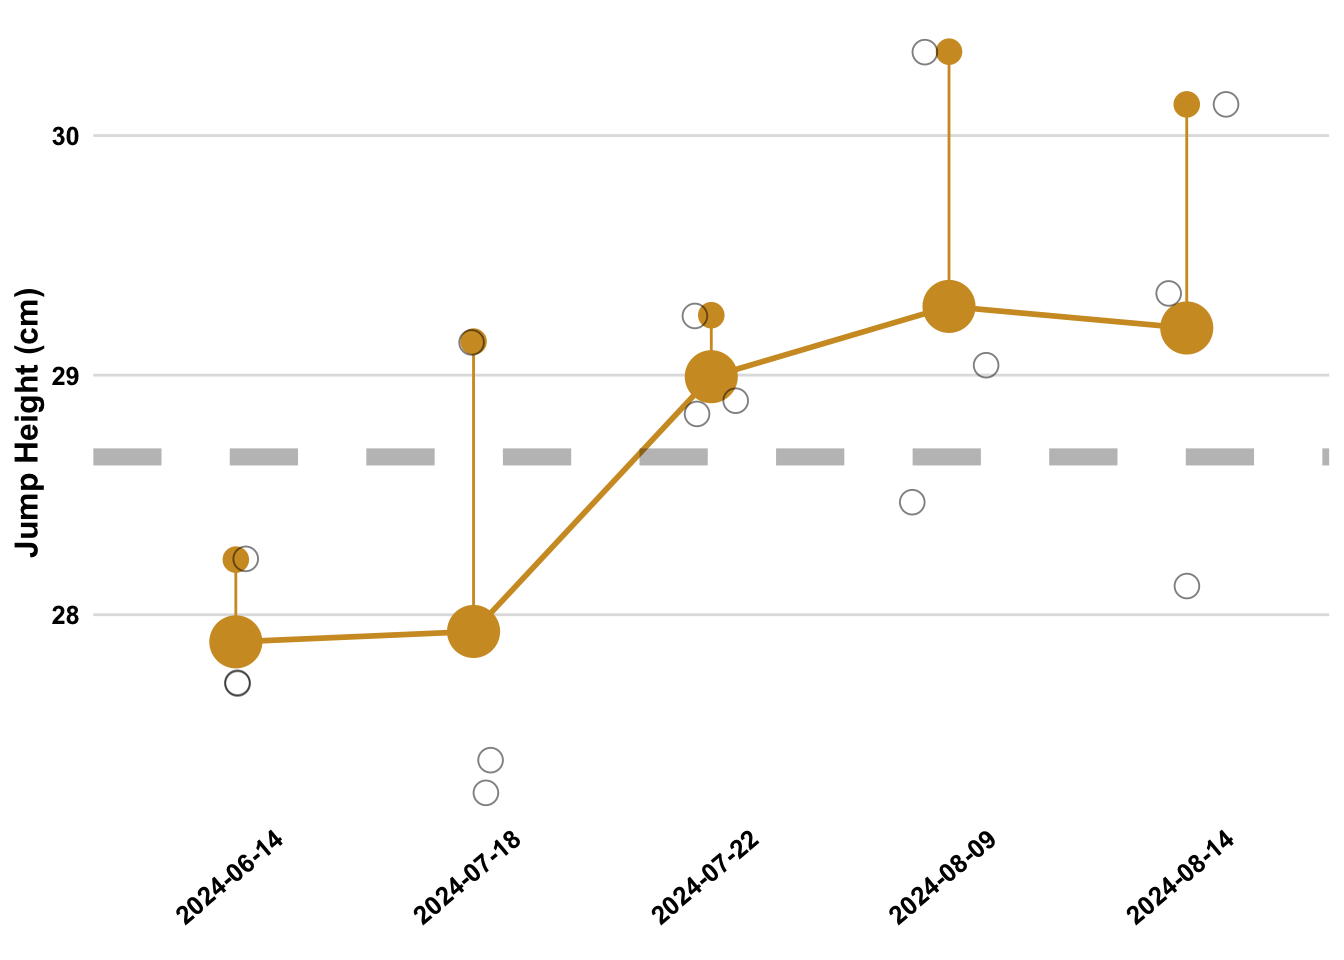
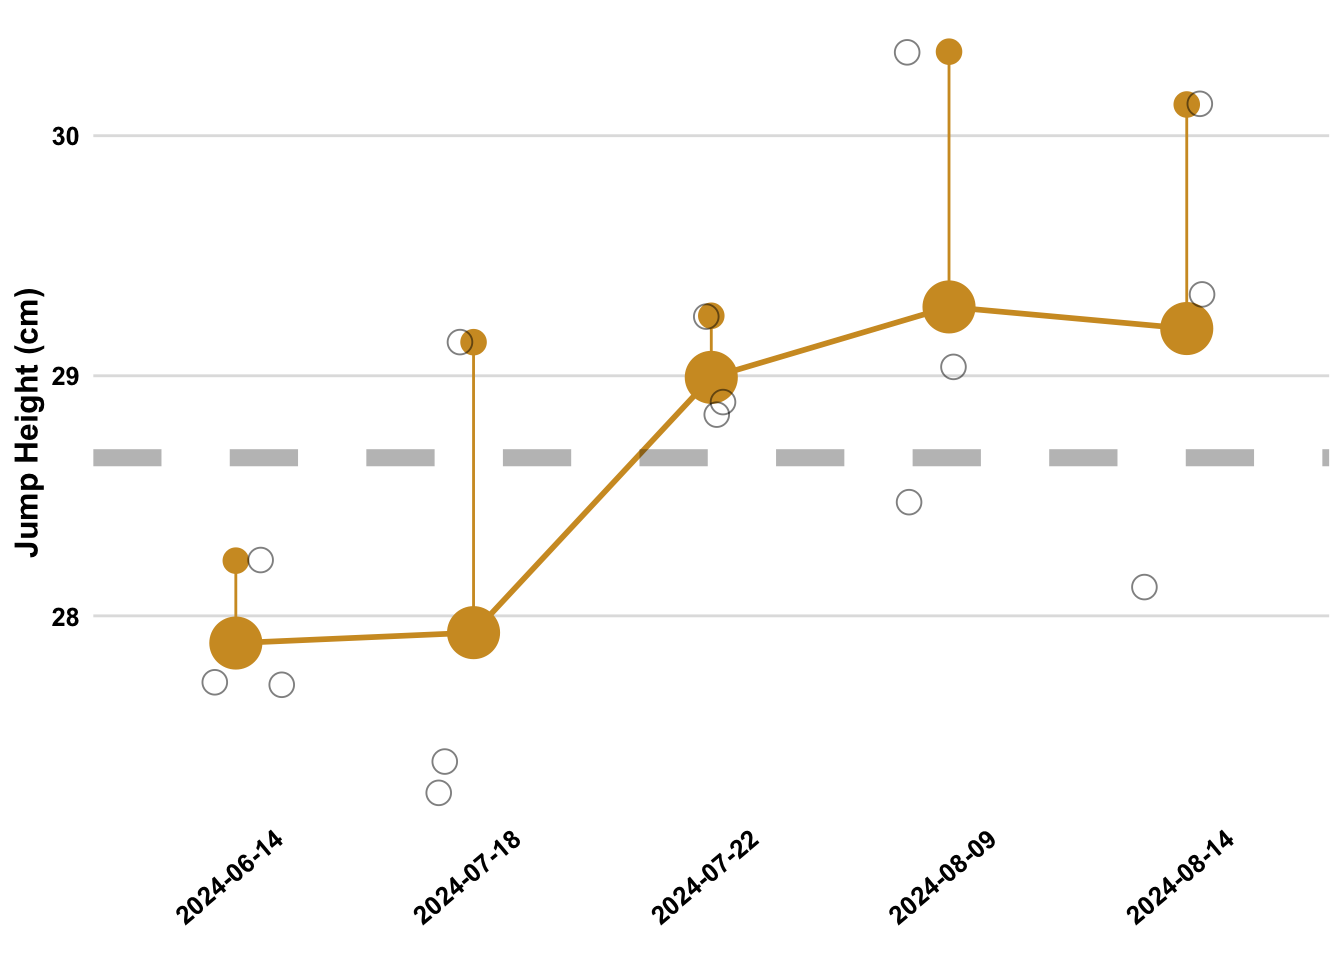
“comment”

diff --git a/_site/posts.html b/_site/posts.html
@@ -202,10 +202,10 @@ window.Quarto = {
 
 <div class="quarto-listing quarto-listing-container-default" id="listing-listing">
 <div class="list quarto-listing-default">
-<div class="quarto-post image-left" data-index="0" data-categories="UyUyNkMlMkNSJTJDZ2dwbG90Mg==" data-listing-date-sort="1746082800000" data-listing-file-modified-sort="1746204063195" data-listing-date-modified-sort="NaN" data-listing-reading-time-sort="15" data-listing-word-count-sort="2923">
+<div class="quarto-post image-left" data-index="0" data-categories="UyUyNkMlMkNSJTJDZ2dwbG90Mg==" data-listing-date-sort="1746082800000" data-listing-file-modified-sort="1746204625463" data-listing-date-modified-sort="NaN" data-listing-reading-time-sort="15" data-listing-word-count-sort="2923">
 <div class="thumbnail">
 <p><a href="./Posts/2025-04-01-cmj-tracking2/index.html" class="no-external"></a></p><a href="./Posts/2025-04-01-cmj-tracking2/index.html" class="no-external">
-<p><img loading="lazy" src="./Posts/2025-04-01-cmj-tracking2/CMJ.ppm" class="thumbnail-image"></p>
+<p><img loading="lazy" src="./Posts/2025-04-01-cmj-tracking2/CMJ1.png" class="thumbnail-image"></p>
 </a><p><a href="./Posts/2025-04-01-cmj-tracking2/index.html" class="no-external"></a></p>
 </div>
 <div class="body">
